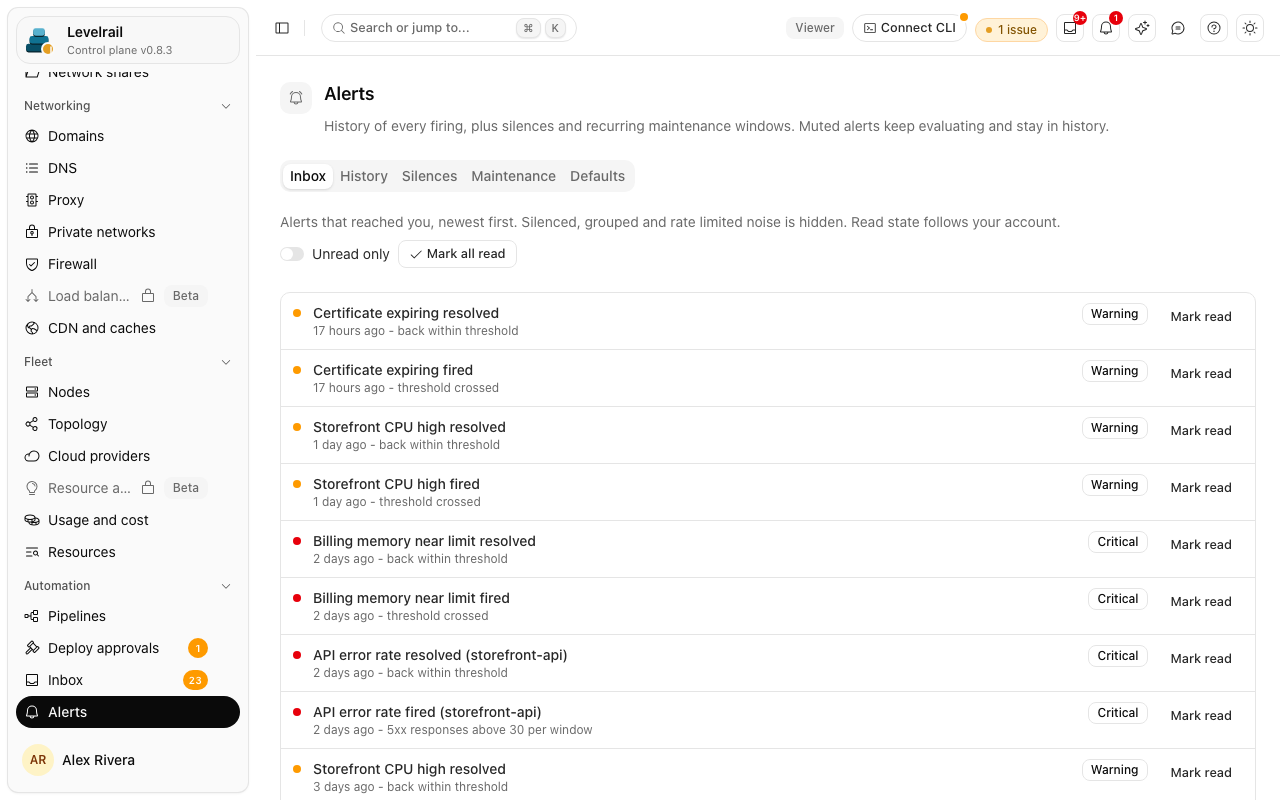
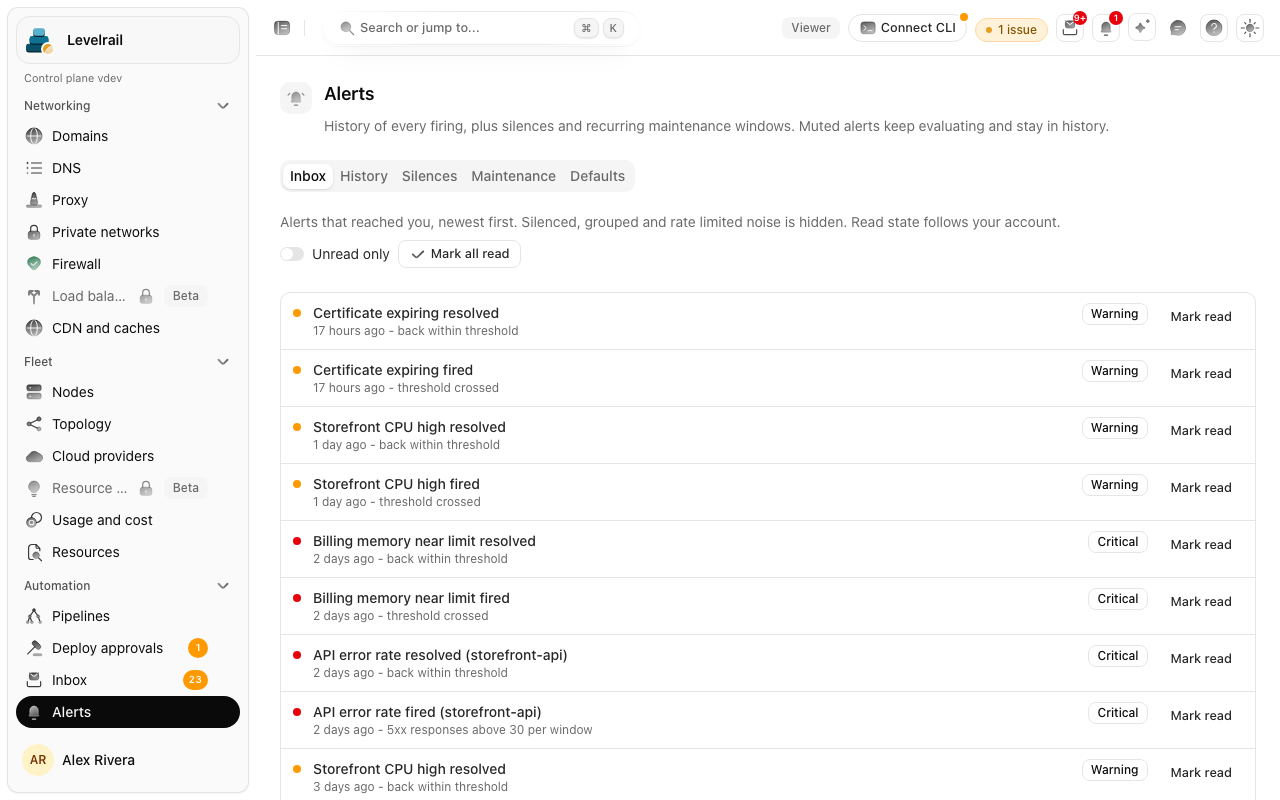
docs: refresh dashboard screenshots and add releases, analysis and status page shots

diff --git a/cmd/levelrail/demo.go b/cmd/levelrail/demo.go
@@ -196,6 +196,7 @@ func buildDemoHandler(ctx context.Context, logger *slog.Logger, b *brand.Brand, 
 		api.WithAlertNoise(alertingDB),
 		api.WithInbox(alertingDB),
 		api.WithStatusPage(db, statusPageConfig(logger), statusPageRateLimit(logger)),
+		api.WithAnalysisReports(db),
 		api.WithDBPinger(db),
 		api.WithDockerPinger(fakes),
 		api.WithImageLister(fakes),
@@ -209,6 +210,8 @@ func buildDemoHandler(ctx context.Context, logger *slog.Logger, b *brand.Brand, 
 	}
 	opts = append(opts, authOpts...)
 	rt := api.NewRouter(logger, b, db, opts...)
+	// Without a sampler the public status page reads Unknown for every component.
+	go func() { _ = rt.RunStatusPageSampler(ctx) }()
 	return demoStaticHeaders(composeMux(rt.Handler(), nil, web.Handler(b))), nil
 }
 

diff --git a/internal/api/node_resource_usage.go b/internal/api/node_resource_usage.go
@@ -3,7 +3,6 @@ package api
 import (
 	"log/slog"
 	"net/http"
-	"os"
 	"sort"
 	"strings"
 
@@ -312,8 +311,8 @@ func (rt *Router) ensureLocalUsageRow(byID map[string]*nodeResourceUsageResource
 	if _, ok := byID[rt.localNodeID]; ok {
 		return
 	}
-	name, err := os.Hostname()
-	if err != nil || name == "" {
+	name := rt.hostname()
+	if name == "" {
 		name = rt.localNodeID
 	}
 	byID[rt.localNodeID] = &nodeResourceUsageResource{NodeID: rt.localNodeID, Name: name, IsLocal: true}

diff --git a/internal/api/network_topology.go b/internal/api/network_topology.go
@@ -202,7 +202,7 @@ func (rt *Router) handleGetNetworkTopology(w http.ResponseWriter, r *http.Reques
 	})
 	res.Groups = groupTopology(topologyGroupInput{
 		nodes: nodes, apps: res.Apps, databases: res.Databases, localNodeID: rt.localNodeID,
-		hostname: localHostname(), address: localAddress(rt.advertiseHost()),
+		hostname: rt.hostname(), address: localAddress(rt.advertiseHost()),
 	})
 
 	writeJSON(w, http.StatusOK, res)

diff --git a/internal/api/placement_names.go b/internal/api/placement_names.go
@@ -48,7 +48,7 @@ func (rt *Router) placementResolver(ctx context.Context) placementResolver {
 			rt.logger.Warn("api: placement resolver: list nodes failed", slog.String("error", err.Error()))
 		}
 	}
-	return newPlacementResolver(nodes, rt.localNodeID, localHostname())
+	return newPlacementResolver(nodes, rt.localNodeID, rt.hostname())
 }
 
 func (p placementResolver) stampApp(res *appResource) {

diff --git a/internal/api/network_topology_groups.go b/internal/api/network_topology_groups.go
@@ -130,6 +130,14 @@ func localAddress(advertiseHost string) string {
 	return h
 }
 
+// hostname hides the capture machine's real name in demo mode.
+func (rt *Router) hostname() string {
+	if rt.demo != nil {
+		return "demo-01"
+	}
+	return localHostname()
+}
+
 func localHostname() string {
 	h, err := os.Hostname()
 	if err != nil || h == "" {

diff --git a/docs/screenshots.md b/docs/screenshots.md
@@ -75,7 +75,7 @@ All credentials are freshly created for each run and never leave the scratch dat
 
 ## Demo mode captures
 
-`capture.sh` deploys two real apps minutes before shooting, so charts are thin and the dashboard is sparse. For populated hero pages (dashboard home, apps list, metrics, deploy history, deployments, nodes, alerts, inbox) use `scripts/screenshots/capture-demo.sh` instead. It seeds 14 days of fictional history with `levelrail demo seed`, serves it with `levelrail demo serve` on a free loopback port from 8095 up, and logs in as the read-only demo account (`demo` / `demo-readonly`). No Docker is needed.
+`capture.sh` deploys two real apps minutes before shooting, so charts are thin and the dashboard is sparse. For populated hero pages (dashboard home, apps list, metrics, deploy history, deployments, nodes, alerts, inbox, app releases) use `scripts/screenshots/capture-demo.sh` instead. It seeds 14 days of fictional history with `levelrail demo seed`, serves it with `levelrail demo serve` on a free loopback port from 8095 up, and logs in as the read-only demo account (`demo` / `demo-readonly`). No Docker is needed. It also applies `scripts/screenshots/demo-extra-seed.sql` (needs `sqlite3`) and serves with `APP_RELEASE_BINDINGS=shadow` so the app overview shows release records.
 
 ```
 scripts/screenshots/capture-demo.sh
